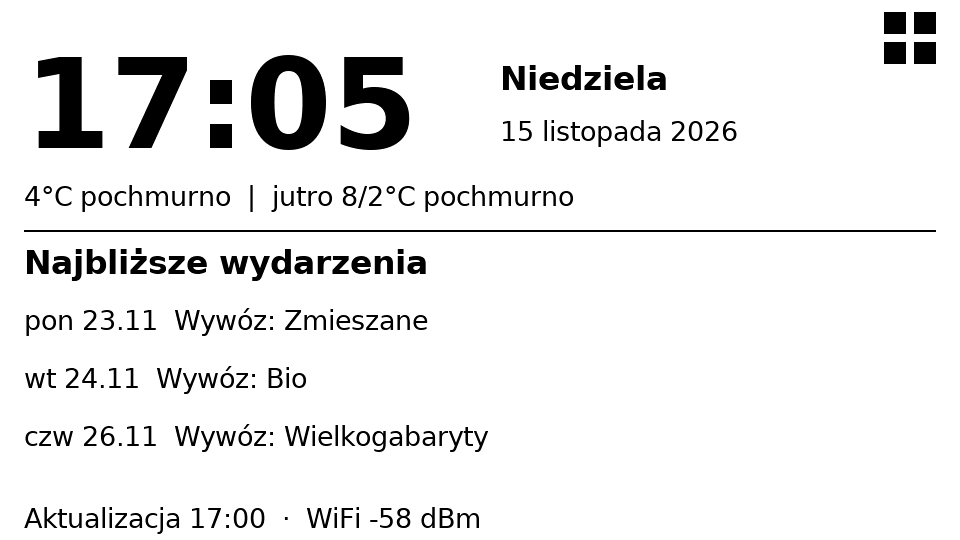
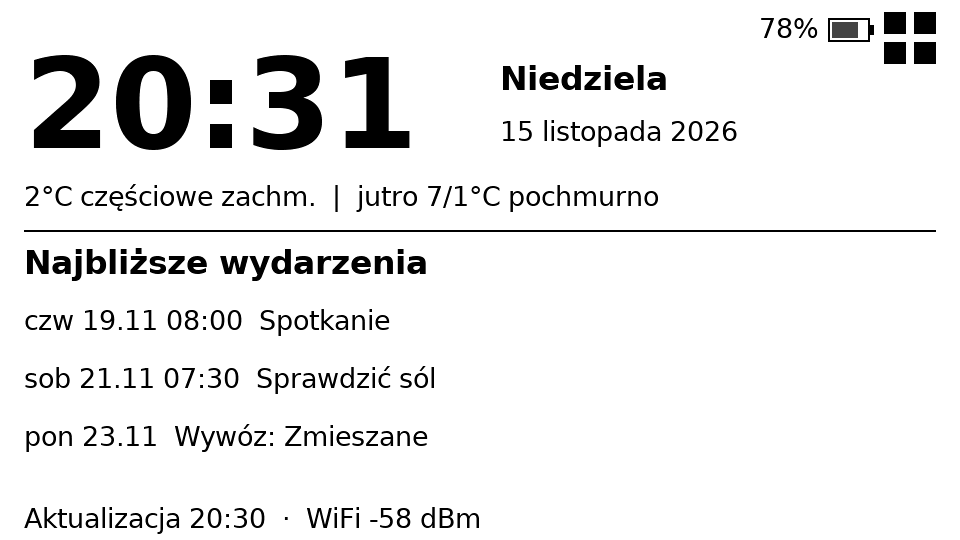
Monitor baterii (ekran + sensor.ha_display_battery), kafelek Światło wejścia

diff --git a/src/main.cpp b/src/main.cpp
@@ -30,6 +30,9 @@
  *   sensor.desk_clock_line              - fallback clock, used only until NTP time is available
  *   TILE_CFG entities (screen 2)        - polled every TILE_POLL_MS while screen 2 is shown
  *
+ * Battery: voltage on BATT_PIN (GPIO14, 1:2 divider; POWER_EN must be on while measuring), averaged,
+ *          shown top-right on both screens, reported to HA as sensor.ha_display_battery every 5 min.
+ *
  * Touch (GT911): icon -> switch screen; screen 1 elsewhere -> fetch HA data now + full redraw;
  *                screen 2 tile -> toggle entity.
  *
@@ -85,6 +88,12 @@ static const TileCfg TILE_CFG[] = {
     {"light.light_garage_entrance_sonoff_light", "Światło garaż"},
 };
 
+// Battery
+static const char *ENTITY_BATTERY = "sensor.ha_display_battery";   // created/updated by this device via REST API
+static const unsigned long BATT_READ_MS   = 60UL * 1000UL;        // measure every minute
+static const unsigned long BATT_REPORT_MS = 5UL * 60UL * 1000UL;  // report to HA every 5 min
+static const int BATT_LOW_PCT             = 15;                   // warning threshold
+
 static const char *TZ_INFO = "CET-1CEST,M3.5.0,M10.5.0/3";      // Europe/Warsaw
 static const char *NTP_1   = "pool.ntp.org";
 static const char *NTP_2   = "time.google.com";
@@ -133,6 +142,13 @@ static Field fields[F_COUNT] = {
 #define SEP_Y 230
 #define SEP_W 912
 #define SEP_H 2
+
+// Battery indicator (left of the screen switch icon): text + battery symbol
+static const Rect_t BATT_AREA = {680, 8, 196, 44};
+#define BATT_ICON_X 828
+#define BATT_ICON_Y 18
+#define BATT_ICON_W 42
+#define BATT_ICON_H 24
 
 // Screen switch icon (top-right) - also the tap zone, with a margin
 static const Rect_t NAV_ICON = {884, 12, 52, 52};
@@ -184,6 +200,12 @@ static unsigned long lastTilePoll = 0;
 static unsigned long tilePollDelay = 0;
 
 static Screen screen = SCREEN_INFO;
+
+static float battVolt = -1;          // smoothed battery voltage, -1 = not measured yet
+static int battPct = -1;             // percent shown on screen, -1 = unknown
+static bool battDirty = false;
+static unsigned long lastBattRead = 0;
+static unsigned long lastBattReport = 0;
 static unsigned long lastInteractionMs = 0;
 
 static TouchDrvGT911 touch;
@@ -363,15 +385,83 @@ static void markTilesDirty()
     for (int i = 0; i < TILE_COUNT; i++) tiles[i].dirty = true;
 }
 
+// ---------- Battery ----------
+// Li-ion discharge curve (open circuit, approx.): voltage -> percent
+static int voltageToPercent(float v)
+{
+    static const float V[] = {3.30f, 3.50f, 3.60f, 3.70f, 3.80f, 3.90f, 4.00f, 4.10f, 4.20f};
+    static const int   P[] = {0,     5,     12,    28,    45,    62,    78,    90,    100};
+    if (v <= V[0]) return 0;
+    for (int i = 1; i < 9; i++) {
+        if (v <= V[i]) return P[i - 1] + (int)((v - V[i - 1]) / (V[i] - V[i - 1]) * (P[i] - P[i - 1]) + 0.5f);
+    }
+    return 100;
+}
+
+// Returns the battery voltage in V, or -1 when the reading is invalid
+static float readBatteryVoltage()
+{
+    epd_poweron();                       // POWER_EN must be on for the battery divider
+    delay(10);
+    uint32_t sum = 0;
+    int n = 0;
+    for (int i = 0; i < 8; i++) {
+        uint32_t mv = analogReadMilliVolts(BATT_PIN);
+        if (mv > 500) { sum += mv; n++; }   // ADC2 may return 0 while WiFi is busy - skip those
+        delay(2);
+    }
+    epd_poweroff();
+    if (!n) return -1;
+    return (float)sum / n * 2.0f / 1000.0f;   // 1:2 divider
+}
+
+static void updateBattery()
+{
+    lastBattRead = millis();
+    float v = readBatteryVoltage();
+    if (v < 0) return;
+    battVolt = (battVolt < 0) ? v : battVolt * 0.7f + v * 0.3f;   // smooth WiFi load dips
+    int pct = voltageToPercent(battVolt);
+    // redraw only on a real change (avoids e-paper flicker on +-1% noise)
+    if (battPct < 0 || abs(pct - battPct) >= 2 || (pct <= BATT_LOW_PCT) != (battPct <= BATT_LOW_PCT)) {
+        battPct = pct;
+        battDirty = true;
+    }
+    Serial.printf("[Batt] %.2f V (avg %.2f V) -> %d%%\n", v, battVolt, pct);
+}
+
+static void drawBattery(bool clearFirst)
+{
+    if (clearFirst) epd_clear_area(BATT_AREA);
+    battDirty = false;
+    if (battPct < 0) return;
+
+    bool low = battPct <= BATT_LOW_PCT;
+    // symbol: outline + tip + fill proportional to the charge
+    Rect_t body = {BATT_ICON_X, BATT_ICON_Y, BATT_ICON_W, BATT_ICON_H};
+    frameRect(body, 2);
+    fillRect(BATT_ICON_X + BATT_ICON_W, BATT_ICON_Y + 7, 4, BATT_ICON_H - 14, 0);
+    int32_t innerW = BATT_ICON_W - 8;
+    int32_t fillW = (innerW * battPct / 100) & ~1;               // even width (2 px per byte)
+    if (battPct > 0 && fillW < 2) fillW = 2;
+    if (fillW > 0) fillRect(BATT_ICON_X + 4, BATT_ICON_Y + 4, fillW, BATT_ICON_H - 8, low ? 0 : 4);
+
+    String t = String(battPct) + "%";
+    const GFXfont *f = low ? &PlSansBold : &PlSans;
+    drawText(f, t, BATT_ICON_X - 10 - textWidth(f, t), BATT_ICON_Y + 20, false);
+}
+
 // Draw only what changed on the current screen (partial refresh)
 static void drawDirty()
 {
     bool any = false;
     if (screen == SCREEN_INFO) for (int i = 0; i < F_COUNT; i++) any |= fields[i].dirty;
     else for (int i = 0; i < TILE_COUNT; i++) any |= tiles[i].dirty;
+    any |= battDirty;
     if (!any) return;
 
     epd_poweron();
+    if (battDirty) drawBattery(true);
     if (screen == SCREEN_INFO) {
         for (int i = 0; i < F_COUNT; i++) if (fields[i].dirty) drawField(fields[i]);
     } else {
@@ -394,6 +484,7 @@ static void drawFull()
         for (int i = 0; i < TILE_COUNT; i++) drawTile(i, false);
     }
     drawNavIcon();
+    drawBattery(false);
     epd_poweroff();
 }
 
@@ -535,7 +626,7 @@ static bool haRequest(const char *method, const String &path, const String &body
 
     int code = (strcmp(method, "POST") == 0) ? http.POST(body) : http.GET();
     esp_task_wdt_reset();
-    if (code != HTTP_CODE_OK) {
+    if (code < 200 || code > 299) {
         http.end();
         if (code < 0) {
             err = "brak połączenia";
@@ -632,6 +723,22 @@ static void toggleTile(int i)
     t.dirty = true;
     lastTilePoll = millis();
     tilePollDelay = 1500;
+}
+
+// Publish the battery state to HA (creates/updates sensor.ha_display_battery)
+static void reportBattery()
+{
+    lastBattReport = millis();
+    if (battPct < 0 || WiFi.status() != WL_CONNECTED || failSinceMs) return;
+    char body[256];
+    snprintf(body, sizeof(body),
+             "{\"state\":%d,\"attributes\":{\"unit_of_measurement\":\"%%\",\"device_class\":\"battery\","
+             "\"state_class\":\"measurement\",\"voltage\":%.2f,\"friendly_name\":\"HA Display bateria\"}}",
+             battPct, battVolt);
+    String payload, err;
+    bool connErr;
+    if (!haRequest("POST", String("/api/states/") + ENTITY_BATTERY, body, payload, err, connErr))
+        Serial.printf("[Batt] report failed: %s\n", err.c_str());
 }
 
 static int tileAt(int16_t x, int16_t y)
@@ -799,6 +906,7 @@ static void updateStatusAndStaleness()
     } else {
         status = String("Aktualizacja ") + (dataTime.length() ? dataTime : String("OK")) + "  ·  WiFi " + WiFi.RSSI() + " dBm";
     }
+    if (battPct >= 0 && battPct <= BATT_LOW_PCT) status = String("Słaba bateria!  ·  ") + status;
     setField(F_STATUS, status);
 }
 
@@ -875,7 +983,9 @@ void setup()
     touchOk = initTouch();
 
     if (WiFi.status() != WL_CONNECTED) wifiLostSinceMs = millis();
+    updateBattery();
     doFetch();
+    reportBattery();
     drawFull();
 }
 
@@ -939,6 +1049,14 @@ void loop()
             for (int i = 0; i < TILE_COUNT; i++) setTileState(i, tiles[i].state, true);
         }
     }
+
+    // Battery
+    if (now - lastBattRead >= BATT_READ_MS) {
+        int before = battPct;
+        updateBattery();
+        if ((before <= BATT_LOW_PCT) != (battPct <= BATT_LOW_PCT)) updateStatusAndStaleness();
+    }
+    if (now - lastBattReport >= BATT_REPORT_MS) reportBattery();
 
     if (now - lastFetchAttempt >= nextFetchDelay) {
         if (WiFi.status() == WL_CONNECTED) {
